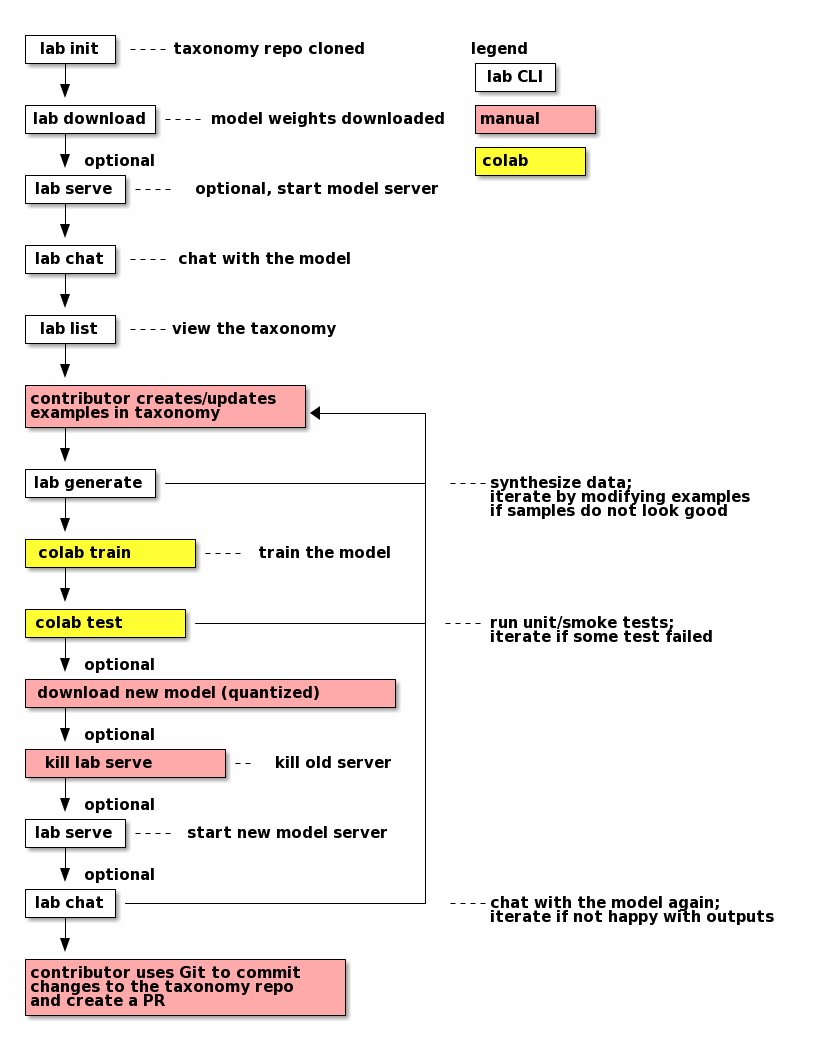
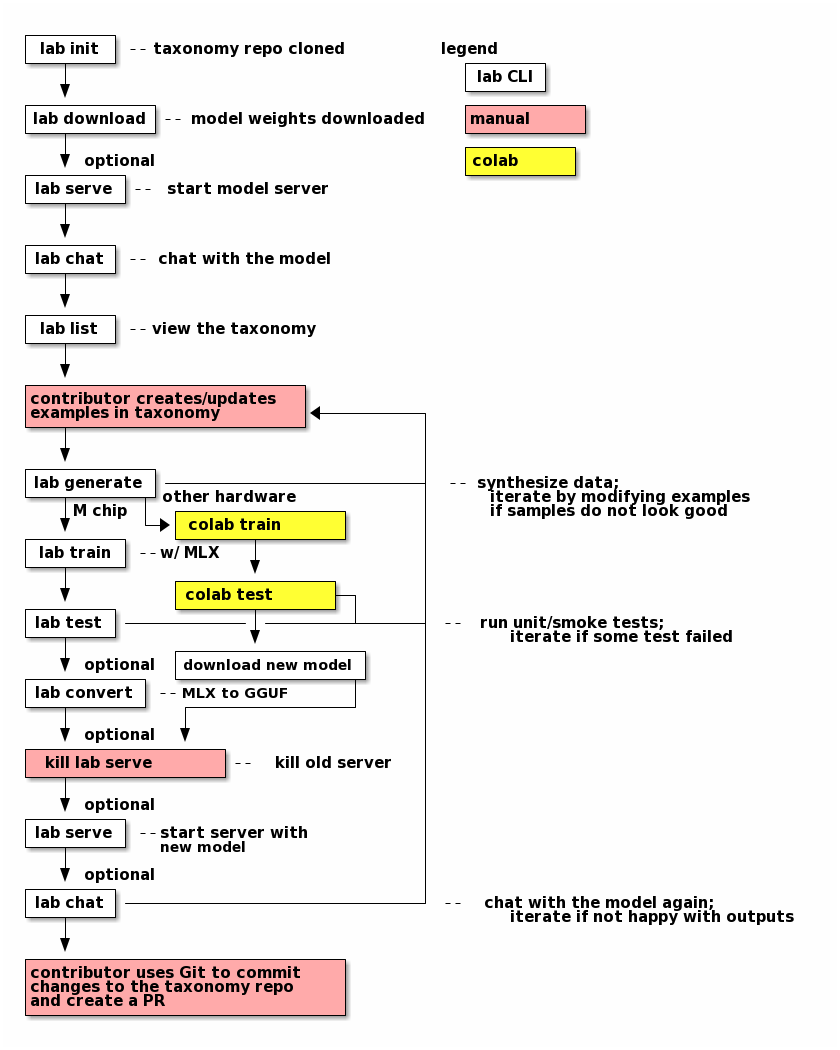
docs: update workflow

diff --git a/cli/train/README.md b/cli/train/README.md
@@ -1,4 +1,4 @@
-happy path
+happy path for M chips
 ```ShellSession
 # session 1
 mkdir workspace-mlx
